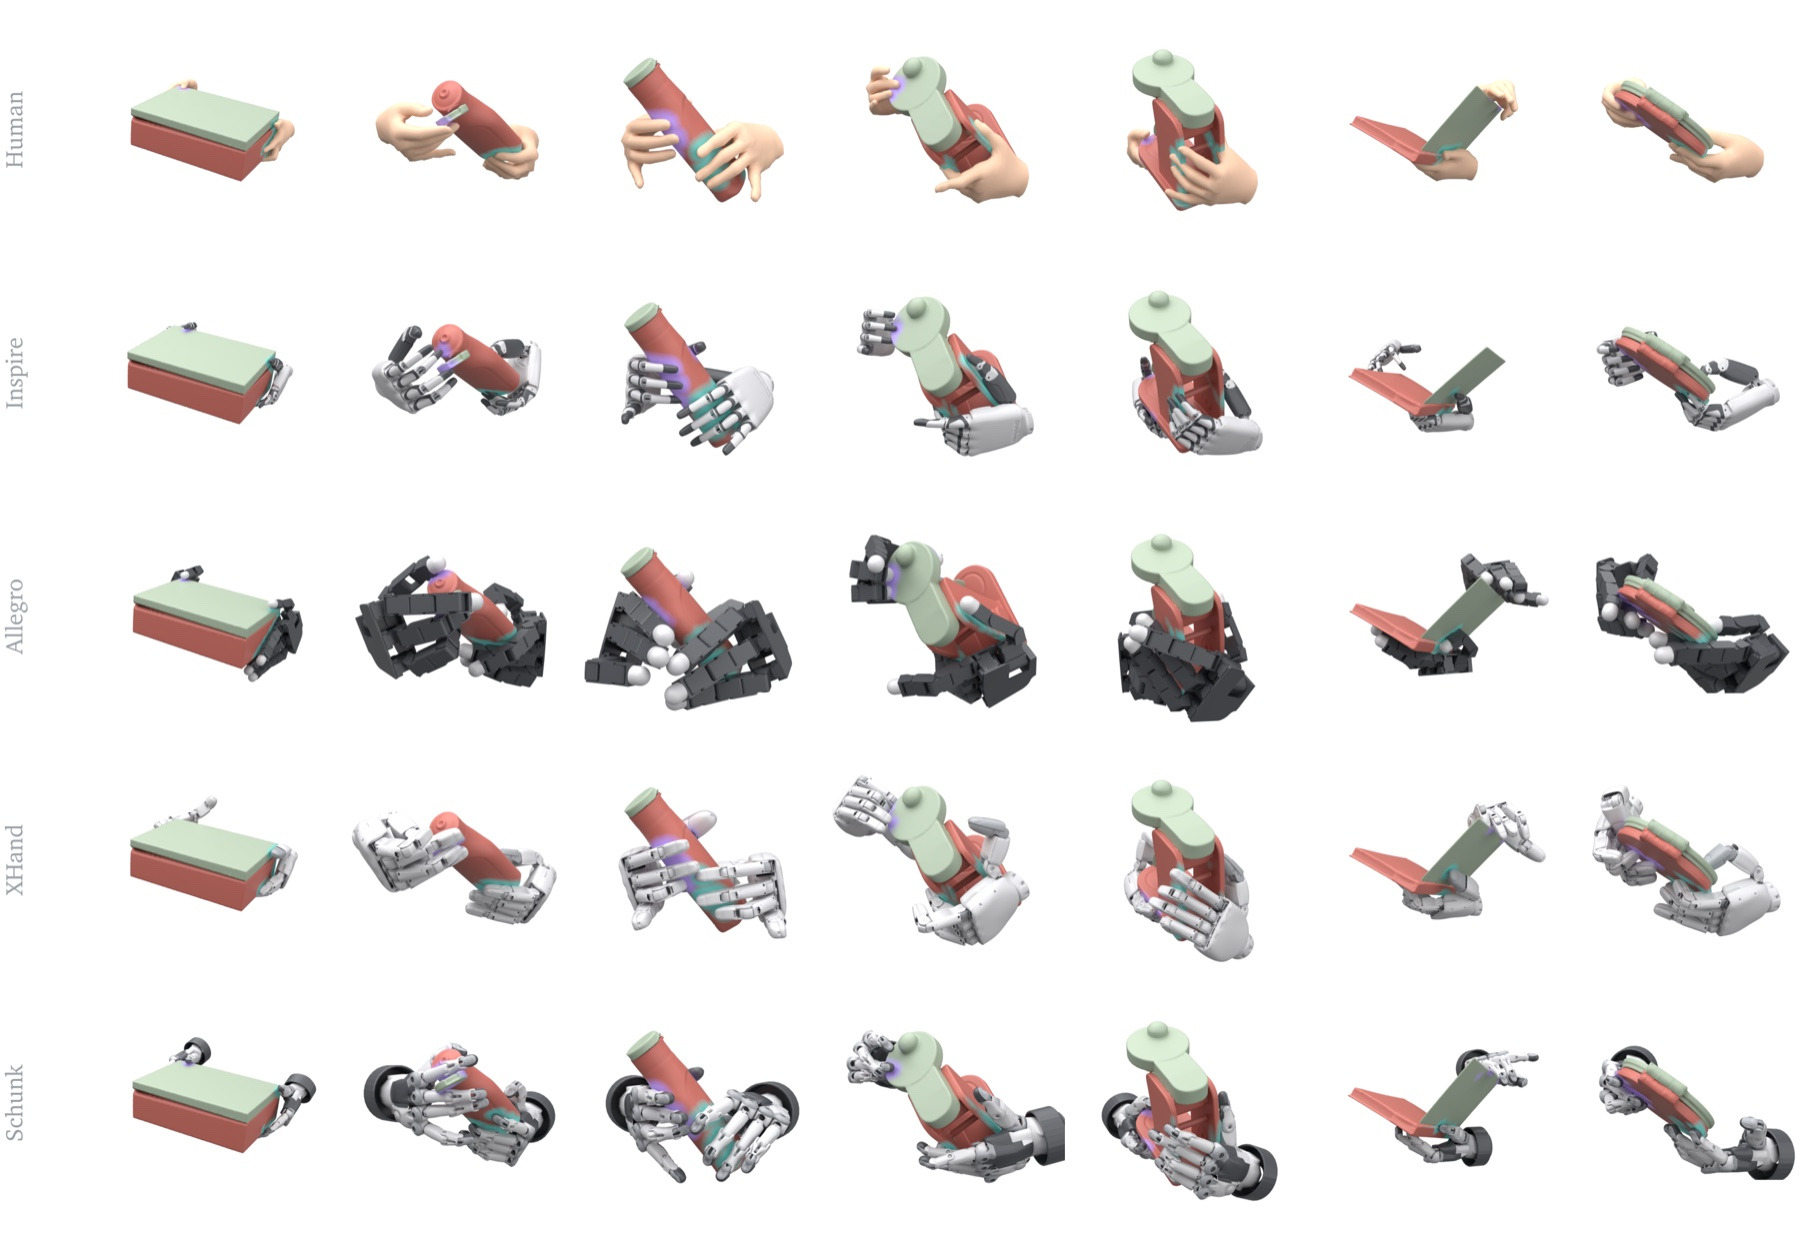
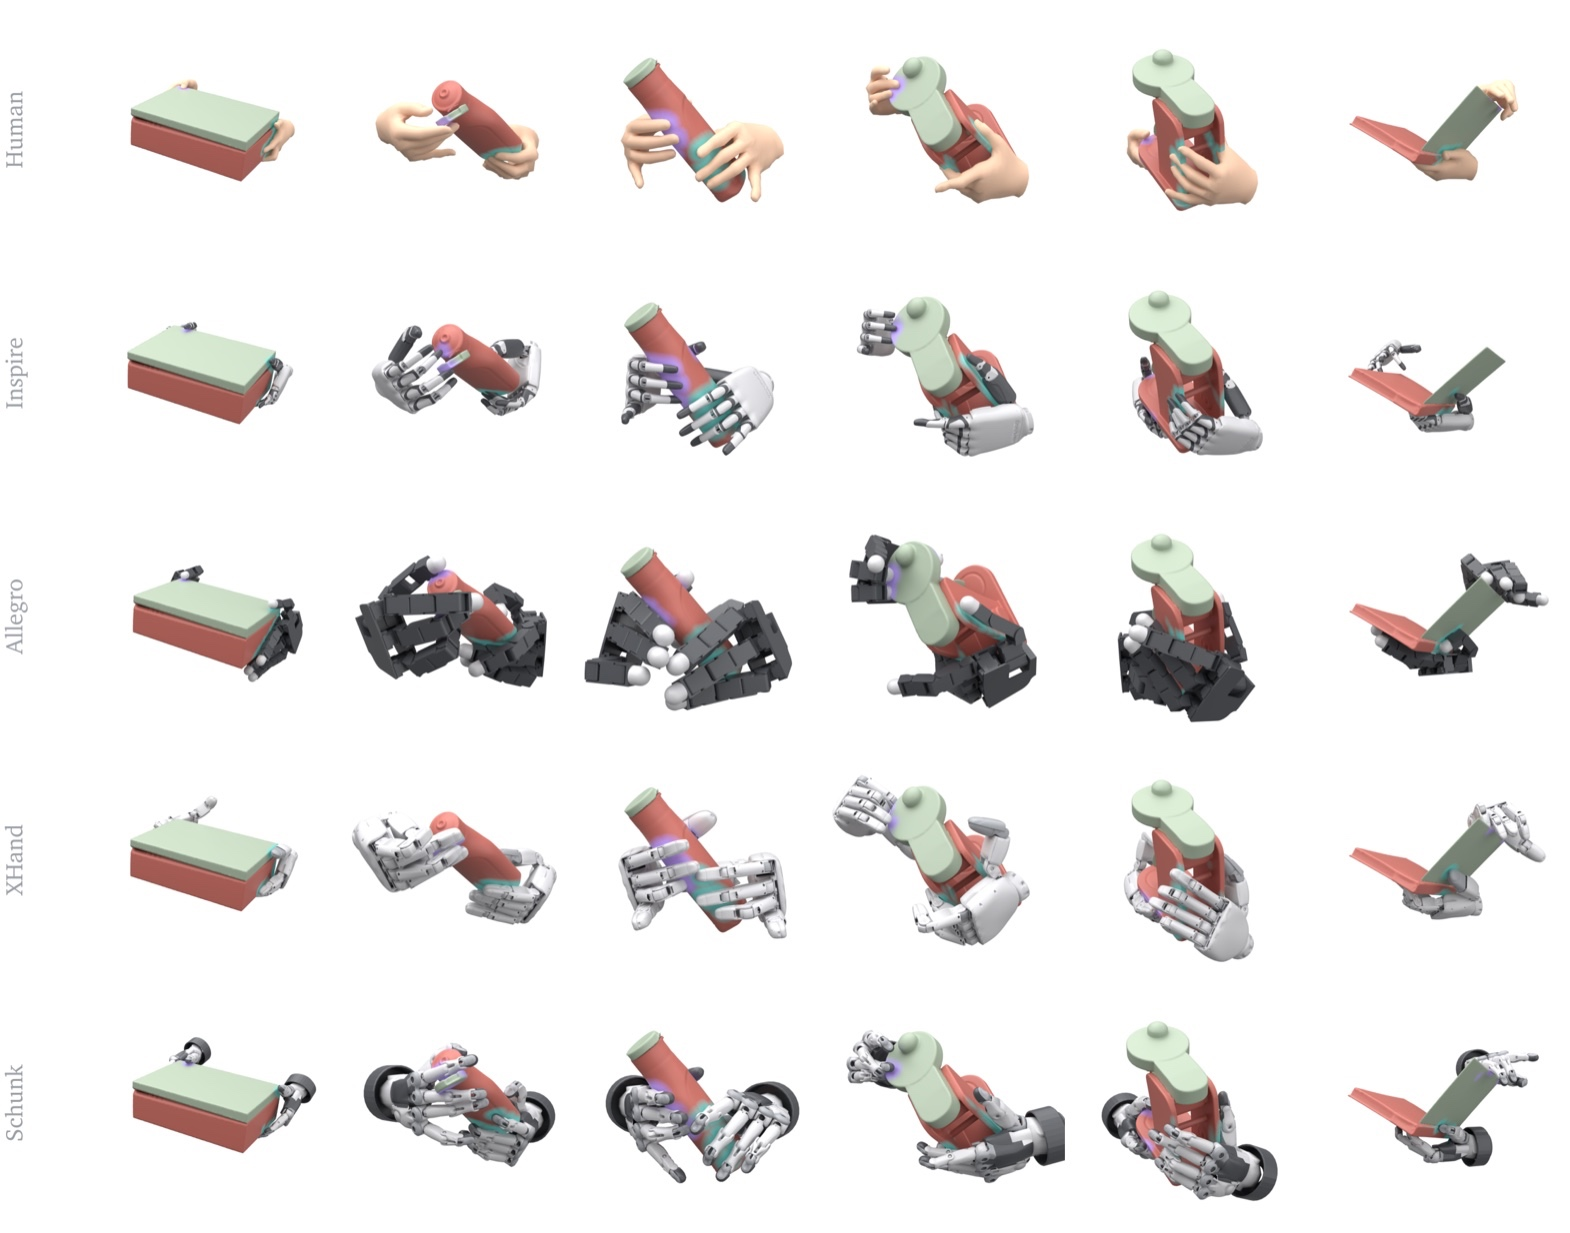
Paper link and citation; docs follow the paper
- README: arXiv badge and BibTeX; Waffleiron-300 GIF and gallery from released runs
- Checkpoint zip without the results summary folder; CHECKPOINTS.sha256 updated
- REPRODUCE, docs and slip_auc wording aligned with the paper

diff --git a/dexmachina/eval/slip_auc.py b/dexmachina/eval/slip_auc.py
@@ -1,4 +1,5 @@
-"""Slip-AUC: does the robot hand hold the object where the human held it, without its contacts sliding? (offline, CPU, numpy)
+"""Contact-AUC (called Slip-AUC in the code): does the robot hand hold the object where the human held it, without its
+contacts sliding? (offline, CPU, numpy)
 
 Scores a recording made by dexmachina/eval/slip_record.py (object state and both hands' keypoints for every evaluation lane
 and step) against the human demonstration. Only recorded trajectories are used, no simulator: like ADD-AUC it can score
@@ -16,7 +17,8 @@ Definition (defaults; every constant is a command-line option):
   * Reported next to it: coverage (share of entries where the robot touches the part and the object is not lost), slip score
     when touching, lost share, per hand / part, controls (hand-only, object-only, human reference), lanes, a moving-block
     bootstrap CI over steps, and the sensitivity to every constant.
-  * It measures whether the grip is stable, not whether it is human-like: one contact that does not slide gets full credit.
+  * It scores whether each robot hand stays, without sliding, on the part the human hand holds: one non-sliding contact on
+    that part gets full credit.
 
 Human data: the per-sequence MANO export written by dexmachina/hand_proc/export_mano_vertices.py (ARCTIC environment), the
 same export the hand-object contact reward is built from; the clip's frames are taken from it.

diff --git a/scripts/reproduce_paper.py b/scripts/reproduce_paper.py
@@ -252,7 +252,7 @@ def write_summary(run_dir, task, hand, label, seed, group, updates=None):
 
 # ---------------------------------------------------------------------------------------------------------------- release
 # The released packages (scripts/download_checkpoints.sh) and the folder each unpacks to under $DEXDUET_CHECKPOINTS.
-PACKAGES = {'dexduet_dexmachina_suite.zip': 'dexduet',        # dexduet/<hand>/<task>/seed<S>/ and dexduet/results/
+PACKAGES = {'dexduet_dexmachina_suite.zip': 'dexduet',        # dexduet/<hand>/<task>/seed<S>/
             'dexduet_ablations.zip': 'ablations'}              # ablations/row_<b..g>/inspire_hand/<task>/seed<S>/
 SUITE_PACKAGES = {'main': ['dexduet_dexmachina_suite.zip'],
                   'ablation': ['dexduet_dexmachina_suite.zip', 'dexduet_ablations.zip'],   # row (a) = the suite's Inspire runs

diff --git a/REPRODUCE.md b/REPRODUCE.md
@@ -78,7 +78,7 @@ lists the missing files with the step that creates each one.
 
 For Inspire, `(cd dexmachina/assets && sha256sum -c ../../environment/generated-assets-sha256.txt)` checks the generated
 files against the ones DexDuet's main-table Inspire runs used (row (a) of the ablation table is part of these runs). When
-all of them match, these checkpoints evaluate to the per-run numbers in `dexduet/results/per_run.csv` exactly on an RTX PRO 6000 (section 2.1; on other
+all of them match, these checkpoints evaluate to the per-run values in their `RUN_INFO.json` (`table_metrics`) exactly on an RTX PRO 6000 (section 2.1; on other
 GPUs see section 2.2). The runs of ablation rows
 (b)-(g) were trained with other processings of the same six ARCTIC sequences, whose files differ from the listed ones.
 Each run with the per-hand policy records the sha256 of its own processed demonstration in `config/env.yaml`
@@ -99,13 +99,13 @@ bash scripts/download_checkpoints.sh          # every package into ./checkpoints
 
 | Package | Unpacks to | Contents |
 |---|---|---|
-| `dexduet_dexmachina_suite.zip` | `dexduet/<hand>/<task>/seed<S>/`, `dexduet/results/` | DexDuet's main-table runs: 4 hands x 7 demonstrations x 5 seeds, and the per-run results behind the table |
+| `dexduet_dexmachina_suite.zip` | `dexduet/<hand>/<task>/seed<S>/` | DexDuet's main-table runs: 4 hands x 7 demonstrations x 5 seeds |
 | `dexduet_ablations.zip` | `ablations/row_<b..g>/inspire_hand/<task>/seed<S>/` | ablation rows (b)-(g): 6 rows x 7 demonstrations x 3 seeds; row (a) is the suite's Inspire runs |
 
 Each run folder holds the evaluated checkpoint `<hand>.pth`, its training configuration (`config/agent.yaml`,
 `config/env.yaml`) and `RUN_INFO.json`: the method or ablation row, hand, task, training seed and original run name, the
-checkpoint record (file, sha256, size in bytes, epoch, selection rule and completed PPO updates) and the values the run was
-reported with (`table_metrics`). Runs with the per-hand policy (every run except those of ablation row (e)) also hold
+checkpoint record (file, sha256, size in bytes, epoch, selection rule and completed PPO updates) and the run's evaluated
+values (`table_metrics`). Runs with the per-hand policy (every run except those of ablation row (e)) also hold
 `config/initialization.json` (hashes of the initial network) and `final_checkpoint.json` (the training-end record that the
 evaluator checks the checkpoint against). Every download is checked against `CHECKPOINTS.sha256`.
 
@@ -155,9 +155,9 @@ bash scripts/reproduce_paper.sh dexmachina --archive <path>/dexmachina_main_resu
 Each checkpoint keeps its own `env.pkl` (DexMachina's retargeting), so these runs have their own start states
 (`resets/dexmachina/`). `scripts/relocate_run.py` points the copy's asset paths at this repository, and the repository's
 default agent configuration (DexMachina's network) goes next to it. The training seed of each checkpoint comes from its
-release config (`config.json`, `params.seed`). As in the paper, the last of the 100 lanes starts from DexMachina's zero hand
-pose (`--zero-pose-last-lane`). When that lane resets early, Contact-AUC is recorded with `slip_record.py
---allow-last-lane-reset`, which marks the lane's later states as lost; the paper does the same.
+release config (`config.json`, `params.seed`). As in DexMachina's evaluator, the last of the 100 lanes starts from their zero
+hand pose (`--zero-pose-last-lane`). When that lane resets early, Contact-AUC is recorded with `slip_record.py
+--allow-last-lane-reset`, which marks the lane's later states as lost.
 
 ### 2.4 Tables
 
@@ -218,8 +218,8 @@ bash scripts/reproduce_paper.sh table
 
 `main` runs `scripts/train_coordinates_hand.py`, which trains with the paper's flags, evaluates the best-reward checkpoint
 and scores ADD-AUC and Contact-AUC; `main` then adds SP-SR, MP-SR and MPPE and the summary. Run folders are
-`logs/rl_games/<hand>/<prefix>-coordinates-hand_<task>_seed<S>_*`. For Schunk on the three long demonstrations, `main` sets
-behavior cloning to 0.3, as in the paper's Schunk runs. Run several jobs in parallel by giving each its own GPU, or two per
+`logs/rl_games/<hand>/<prefix>-coordinates-hand_<task>_seed<S>_*`. For Schunk on Ketchup-300, Waffleiron-300 and Notebook-300
+(group A), `main` sets behavior cloning to 0.3, as in the paper's Schunk runs. Run several jobs in parallel by giving each its own GPU, or two per
 GPU.
 
 This repository trains with the collision-pair fix and the corrected reset observation. The paper's other three hands and its
@@ -272,7 +272,7 @@ above, `track2_metrics.py` gives the same values.
 
 The hold test of the main text and the supplementary lets each policy act for 3 s after the last frame with every reference
 frozen there. A run holds the object if the object stays within 5 cm of its final pose for the whole 3 s, and drops it if
-the object falls by more than 10 cm.
+the object ends the 3 s more than 10 cm below its final pose or off the table.
 [dexmachina/eval/hold_test/README.md](dexmachina/eval/hold_test/README.md) gives the protocol.
 
 ```bash
@@ -307,5 +307,5 @@ seeds; off track: runs that end more than 3 cm from the final pose, of 35 per ha
 - **V2D challenge (Unitree G1 with Dex3 hands)**: DexDuet, DexDuet without interaction rewards and CHORD (PPO) on the
   challenge's runtime are in [DexDuet-V2D](https://github.com/HaoranZhangumich/DexDuet-V2D).
 - **SPIDER suite and ManipTrans suite**: DexDuet and the baselines of these two benchmarks are not in this repository.
-- Not included: DexMachina's checkpoints scored with their own first observation, the comparison of runs at equal tracking
-  and the real-robot experiments.
+- Not included: ConTrack on the DexMachina suite with XHand hands, the comparison of runs at equal tracking, the perceptual
+  study and the real-robot experiments.

diff --git a/docs/METHOD.md b/docs/METHOD.md
@@ -14,7 +14,7 @@ own contact reward), the PPO settings, the stopping rule and the checkpoint sele
 | Part | What it is | Options |
 |---|---|---|
 | Per-hand policy | The bimanual policy is factorized into two per-hand policies that share one actor network. Each hand's actor sees its own observation and the other hand's state and previous action (the partner input, encoded by a shared partner encoder). PPO clips each hand's probability ratio separately; the advantages come from two value heads of a centralized critic. | `--coordinate_actor --per_hand_ppo --value_mode per_hand` (with `--ablation_protocol dexmachina`, which per-hand PPO needs) |
-| Assisted reference-state initialization (A-RSI) | Episodes start throughout the demonstration. Each start segment has its own level of object assistance (DexMachina's virtual object controller), which is withdrawn as episodes from that segment succeed, under a deadline that reaches zero assistance before the end of training. Mid-demonstration episodes start from simulator states that earlier assisted episodes reached (keyframes); a keyframe is kept only once its episode reaches the end of the demonstration. Start segments are drawn more often where episodes fail, and a quarter of the starts are at frame 0, where evaluation starts. | `--curr_schedule rsi --rsi_keyframes --rsi_grace_bank 8 --rsi_kf_confirm 30 --rsi_kf_to_end --rsi_frame0_share 0.25`; segments of 15 frames (`--rsi_bin_frames 15`) on Box-200, Ketchup-100, Mixer-170, Mixer-300 and Waffleiron-300, 20 equal segments on Ketchup-300 and Notebook-300 |
+| Assisted reference-state initialization (A-RSI) | Episodes start throughout the demonstration. Each start segment has its own level of object assistance (DexMachina's virtual object controller), which is withdrawn as episodes from that segment succeed, under a deadline that reaches zero assistance before the end of training. Mid-demonstration episodes start from simulator states that earlier assisted episodes reached (keyframes); a keyframe is kept only once its episode reaches the end of the demonstration. Start segments are drawn more often where episodes fail, and a quarter of the starts are forced to frame 0, where evaluation starts. | `--curr_schedule rsi --rsi_keyframes --rsi_grace_bank 8 --rsi_kf_confirm 30 --rsi_kf_to_end --rsi_frame0_share 0.25`; segments of 15 frames (`--rsi_bin_frames 15`) on Box-200, Ketchup-100, Mixer-170, Mixer-300 and Waffleiron-300, 20 equal segments on Ketchup-300 and Notebook-300 |
 | Hand graph reward (weight 0.5) | Each hand's palm normal, palm direction and finger directions, and its fingertip gaps, compared with the human (MANO) hand in the object frame. | `--hand_graph_weight 0.5` |
 | Hand-object contact reward (weight 1.0) | For each region of each hand (palm, thumb, each other finger) and each object part: the distance to the part and the closest point on it, robot against human, scored with a tolerance. Pairs in which the robot or the human touches the part weigh most. | `--ho_contact_weight 1.0` (assets from `dexmachina/hand_proc/ho_contact_assets.py`) |
 
@@ -105,7 +105,7 @@ evaluator always re-reads the simulator before the first action. The original st
 accepted so older commands parse, and always means corrected.
 
 **Last evaluation environment.** DexMachina's released evaluator leaves the last of its 100 environments uncontrolled and
-starts it from a zero hand pose. Here the policy controls every environment. As in the paper, DexMachina's checkpoints keep
+starts it from a zero hand pose. Here the policy controls every environment. As in DexMachina's evaluator, their checkpoints keep
 the zero-pose start of the last lane (`--zero-pose-last-lane` of `eval_rl_games.py`, `slip_record.py` and the hold test,
 which `scripts/reproduce_paper.sh` sets for them), and MPPE is reported over lanes 0-98. Every other run, including ablation
 row (e), starts all 100 lanes from the reference start. For Contact-AUC, when DexMachina's zero-pose lane resets early,

diff --git a/README.md b/README.md
@@ -5,7 +5,7 @@
 <h3>Learning Contact-Preserving Bimanual Dexterity from Human Demonstrations</h3>
 
 <a href="https://rcl-robotics.github.io/Dexduet.io/"><img alt="Project page" src="https://img.shields.io/badge/Project%20page-online-2F6B5E?style=flat-square"></a>
-<img alt="Paper coming soon" src="https://img.shields.io/badge/Paper-coming%20soon-B7C4BF?style=flat-square">
+<a href="https://arxiv.org/abs/2611.30495"><img alt="arXiv 2611.30495" src="https://img.shields.io/badge/arXiv-2611.30495-2F6B5E?style=flat-square"></a>
 <a href="LICENSE"><img alt="MIT license" src="https://img.shields.io/badge/License-MIT-B7C4BF?style=flat-square"></a>
 
 🏆 <b>Industry Innovation Award</b> &nbsp;&nbsp;·&nbsp;&nbsp; 🥈 <b>2nd place, Track 2 (Robotic Grounding)</b><br>
@@ -29,7 +29,7 @@ Our entry to the NVIDIA V2D Challenge is built on DexDuet. The code for all thre
 <p align="center"><img src="media/four_hands.gif" width="100%" alt="DexDuet on Mixer-300 with Inspire, Allegro, XHand and Schunk hands"></p>
 <p align="center"><sub>Inspire · Allegro · XHand · Schunk</sub></p>
 
-<p align="center"><img src="media/gallery.jpg" width="100%" alt="DexDuet with four robot hands on the seven DexMachina-suite demonstrations"></p>
+<p align="center"><img src="media/gallery.jpg" width="100%" alt="DexDuet with four robot hands on six of the seven DexMachina-suite demonstrations"></p>
 
 ## Compared with DexMachina
 
@@ -81,10 +81,18 @@ and checkpoints. MIT license, inherited from DexMachina. The ARCTIC object meshe
 MANO hand assets in `dexmachina/assets/mano_hand/` come from DexMachina's repository; the terms of
 [ARCTIC](https://arctic.is.tue.mpg.de/) and [MANO](https://mano.is.tue.mpg.de/) apply to them.
 
-<details>
-<summary>Citation</summary>
+## Citation
 
-The DexDuet citation will follow on publication. Please also cite DexMachina:
+```bibtex
+@article{zhang2026dexduet,
+  title   = {DexDuet: Learning Contact-Preserving Bimanual Dexterity from Human Demonstrations},
+  author  = {Zhang, Haoran and Ding, Haokai and Zhou, Han and Lu, Zuxing and Zhang, Heng and Zuo, Xingxing},
+  journal = {arXiv preprint arXiv:2611.30495},
+  year    = {2026}
+}
+```
+
+Please also cite DexMachina:
 
 ```bibtex
 @inproceedings{mandi2026dexmachina,
@@ -94,5 +102,3 @@ The DexDuet citation will follow on publication. Please also cite DexMachina:
   year      = {2026},
 }
 ```
-
-</details>

diff --git a/docs/DETAILS.md b/docs/DETAILS.md
@@ -33,7 +33,7 @@ DexMachina.
 | Part | What it does | Flags |
 |---|---|---|
 | Per-hand policy | The bimanual policy is split into two per-hand policies that share one actor network. Each hand's actor sees its own observation and the other hand's state and previous action. PPO clips each hand's probability ratio separately, with advantages from two value heads of a shared critic. | `--coordinate_actor --per_hand_ppo --value_mode per_hand` (with `--ablation_protocol dexmachina`, which per-hand PPO needs) |
-| Assisted reference-state initialization (A-RSI) | Episodes start throughout the demonstration. Each start segment has its own level of object assistance, which is withdrawn as episodes from that segment succeed. Mid-demonstration episodes start from simulator states that earlier episodes reached, segments where episodes fail are drawn more often, and a quarter of the starts are at the first frame. | `--curr_schedule rsi --rsi_keyframes --rsi_grace_bank 8 --rsi_kf_confirm 30 --rsi_kf_to_end --rsi_frame0_share 0.25` |
+| Assisted reference-state initialization (A-RSI) | Episodes start throughout the demonstration. Each start segment has its own level of object assistance, which is withdrawn as episodes from that segment succeed. Mid-demonstration episodes start from simulator states that earlier episodes reached, segments where episodes fail are drawn more often, and a quarter of the starts are forced to the first frame. | `--curr_schedule rsi --rsi_keyframes --rsi_grace_bank 8 --rsi_kf_confirm 30 --rsi_kf_to_end --rsi_frame0_share 0.25` |
 | Hand graph reward | Each hand's palm and finger directions and fingertip gaps, compared with the human hand in the object frame (weight 0.5). | `--hand_graph_weight 0.5` |
 | Hand-object contact reward | For the palm and each finger of each hand: the distance to each object part and the closest point on it, compared with the human hand (weight 1.0). | `--ho_contact_weight 1.0` |
 | Contact-AUC | An evaluation metric: in every window in which a human hand holds an object part without sliding, it checks whether the same robot hand touches that part without sliding on it. | `dexmachina/eval/slip_record.py`, `slip_auc.py` |

diff --git a/docs/OPTIONS.md b/docs/OPTIONS.md
@@ -27,7 +27,7 @@ Without these options the trainer uses DexMachina's unified policy, as in ablati
 | `--rsi_kf_to_end` | off | A state is kept as a keyframe only once its episode reaches the end of the demonstration, and it is served only while its segment gives at least the assistance that episode had. |
 | `--rsi_kf_confirm 30` | 0 | A state is kept only after its episode continues for 30 more frames. `--rsi_kf_to_end` takes precedence. |
 | `--rsi_grace_bank 8` | 0 | Task reward credited to the early-reset check of episodes that start in the middle of the demonstration. |
-| `--rsi_frame0_share 0.25` | 0 | A quarter of the starts are at the first frame, where evaluation starts. |
+| `--rsi_frame0_share 0.25` | 0 | A quarter of the starts are forced to the first frame, where evaluation starts (λ0 = 0.25); starts drawn in the first segment add to them. |
 
 ## Interaction rewards
 
